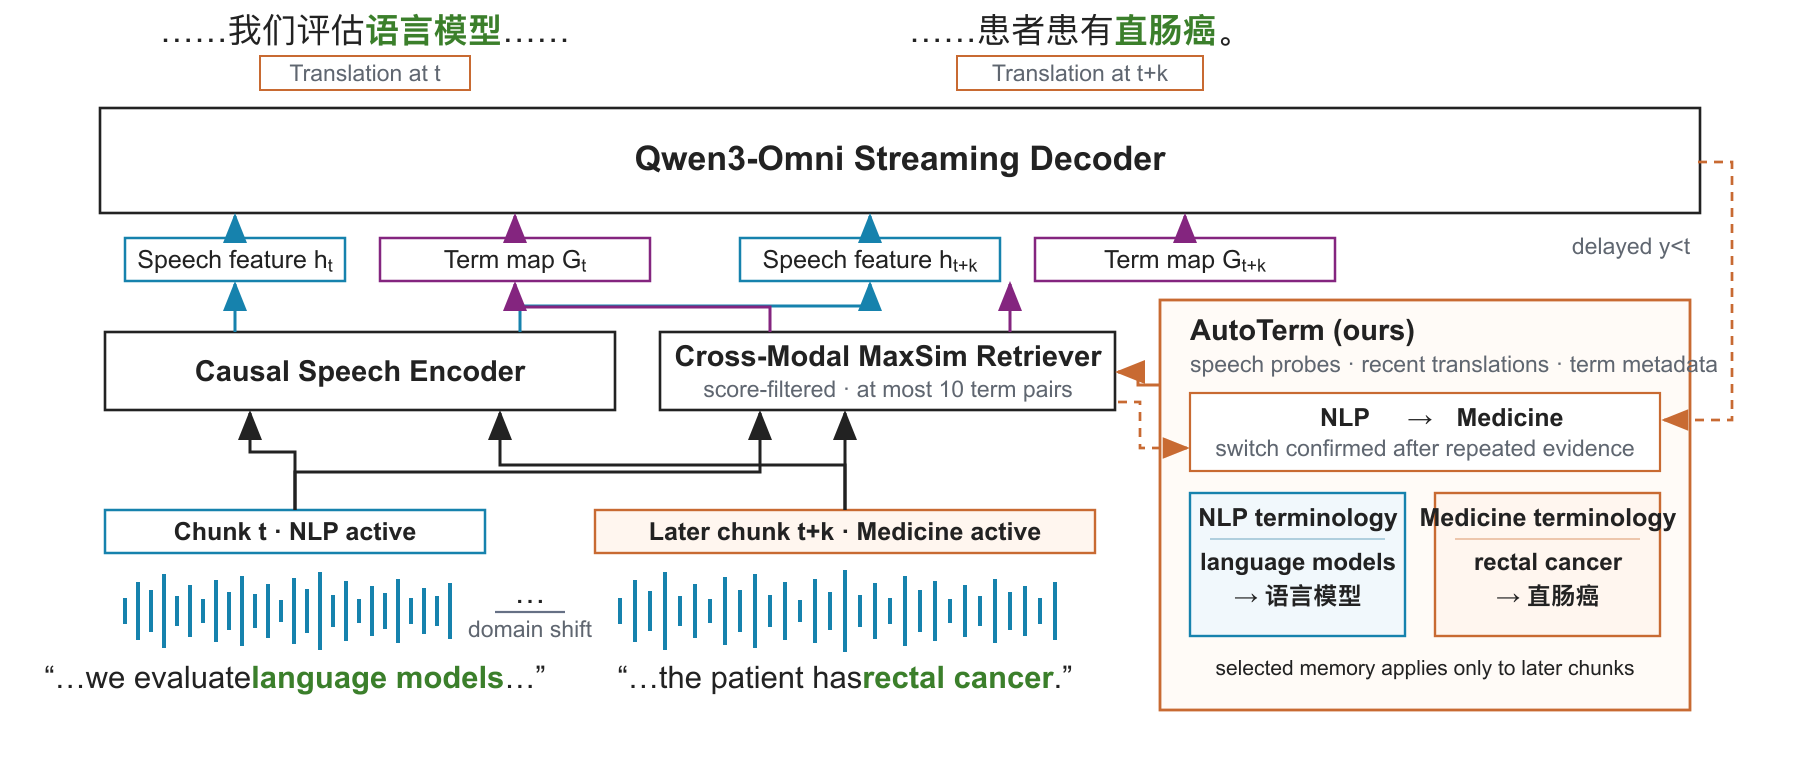
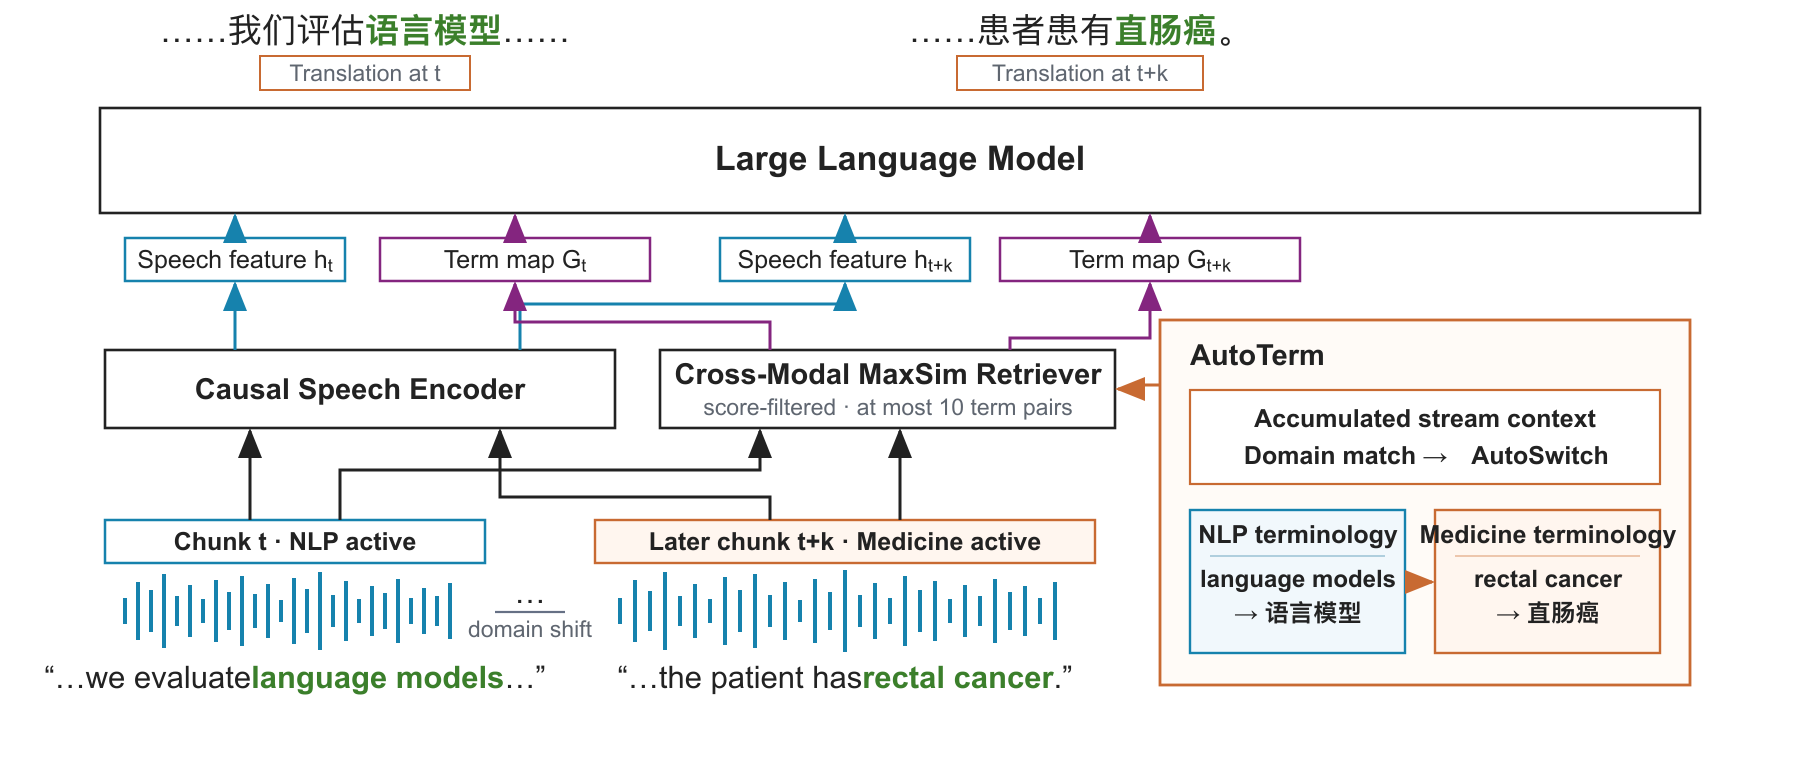
Simplify Figure 1 labels and spacing

diff --git a/demo_paper_emnlp/latex/sections/3_system_overview.tex b/demo_paper_emnlp/latex/sections/3_system_overview.tex
@@ -19,7 +19,7 @@ RASST backbone encodes each chunk and injects at most 10 bilingual term pairs
 from the active slice into Qwen3-Omni. Earlier, \emph{language models} comes
 from the NLP slice; after accumulated evidence confirms a domain shift, a later
 chunk uses \emph{rectal cancer} from the medicine slice. The training-free
-router combines speech probes, prior translations, and term metadata; switches
+router matches accumulated streaming context to the domain memories; switches
 affect later chunks only.}
 \label{fig:architecture}
 \end{figure*}